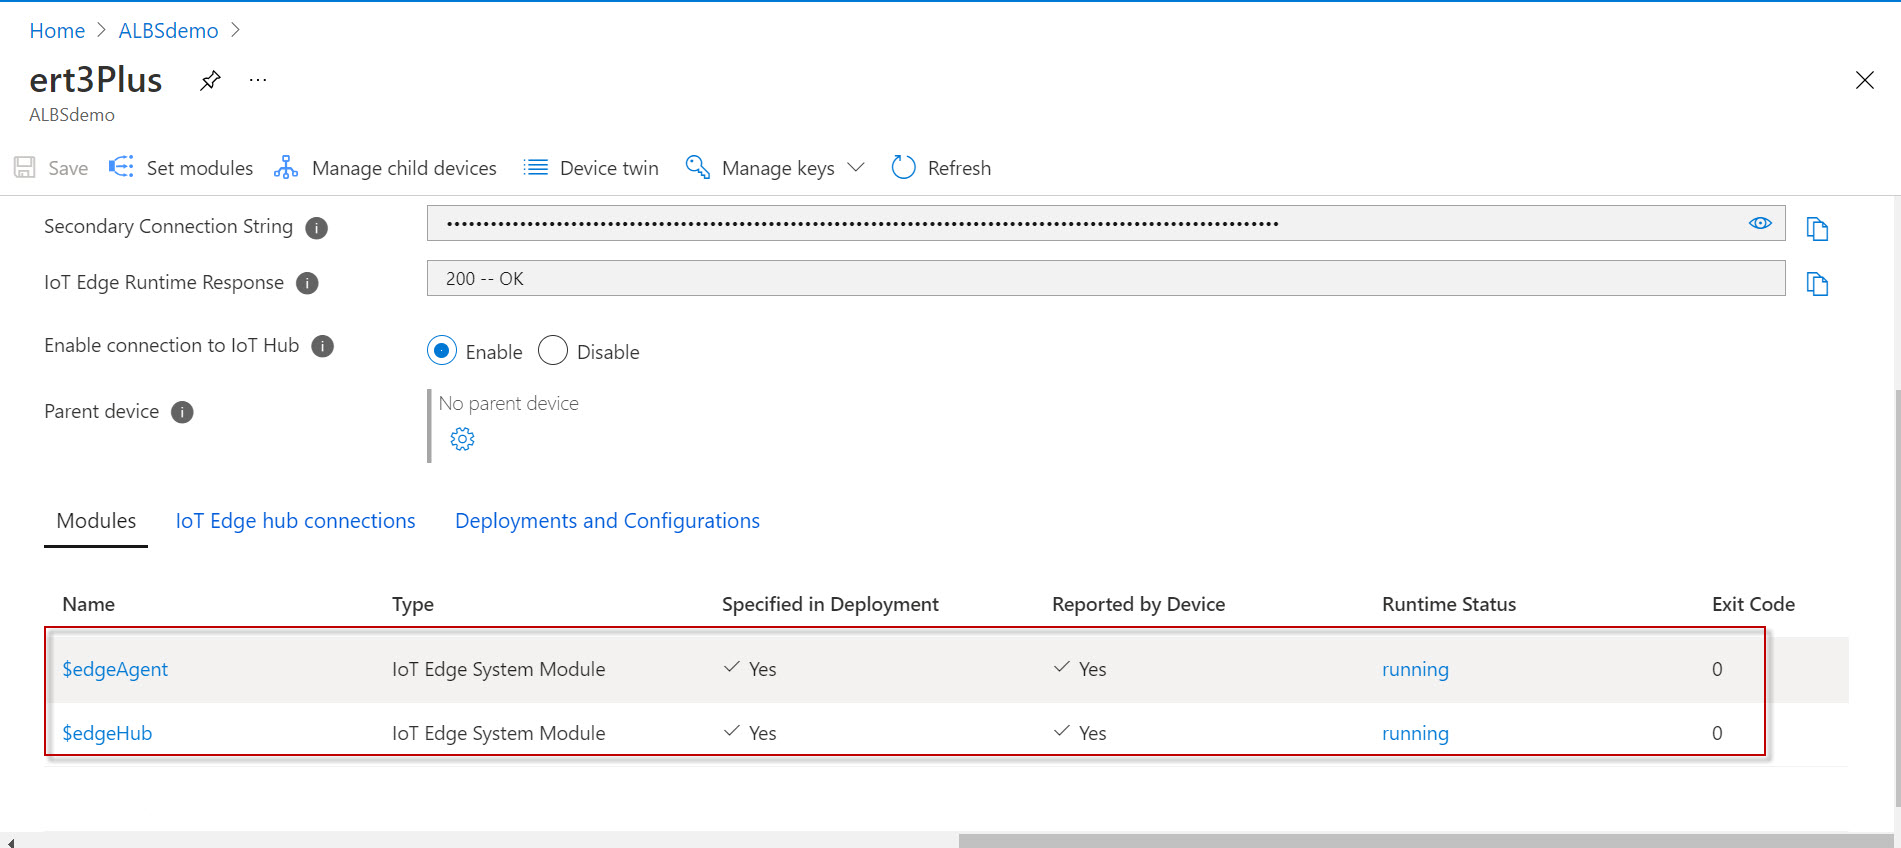
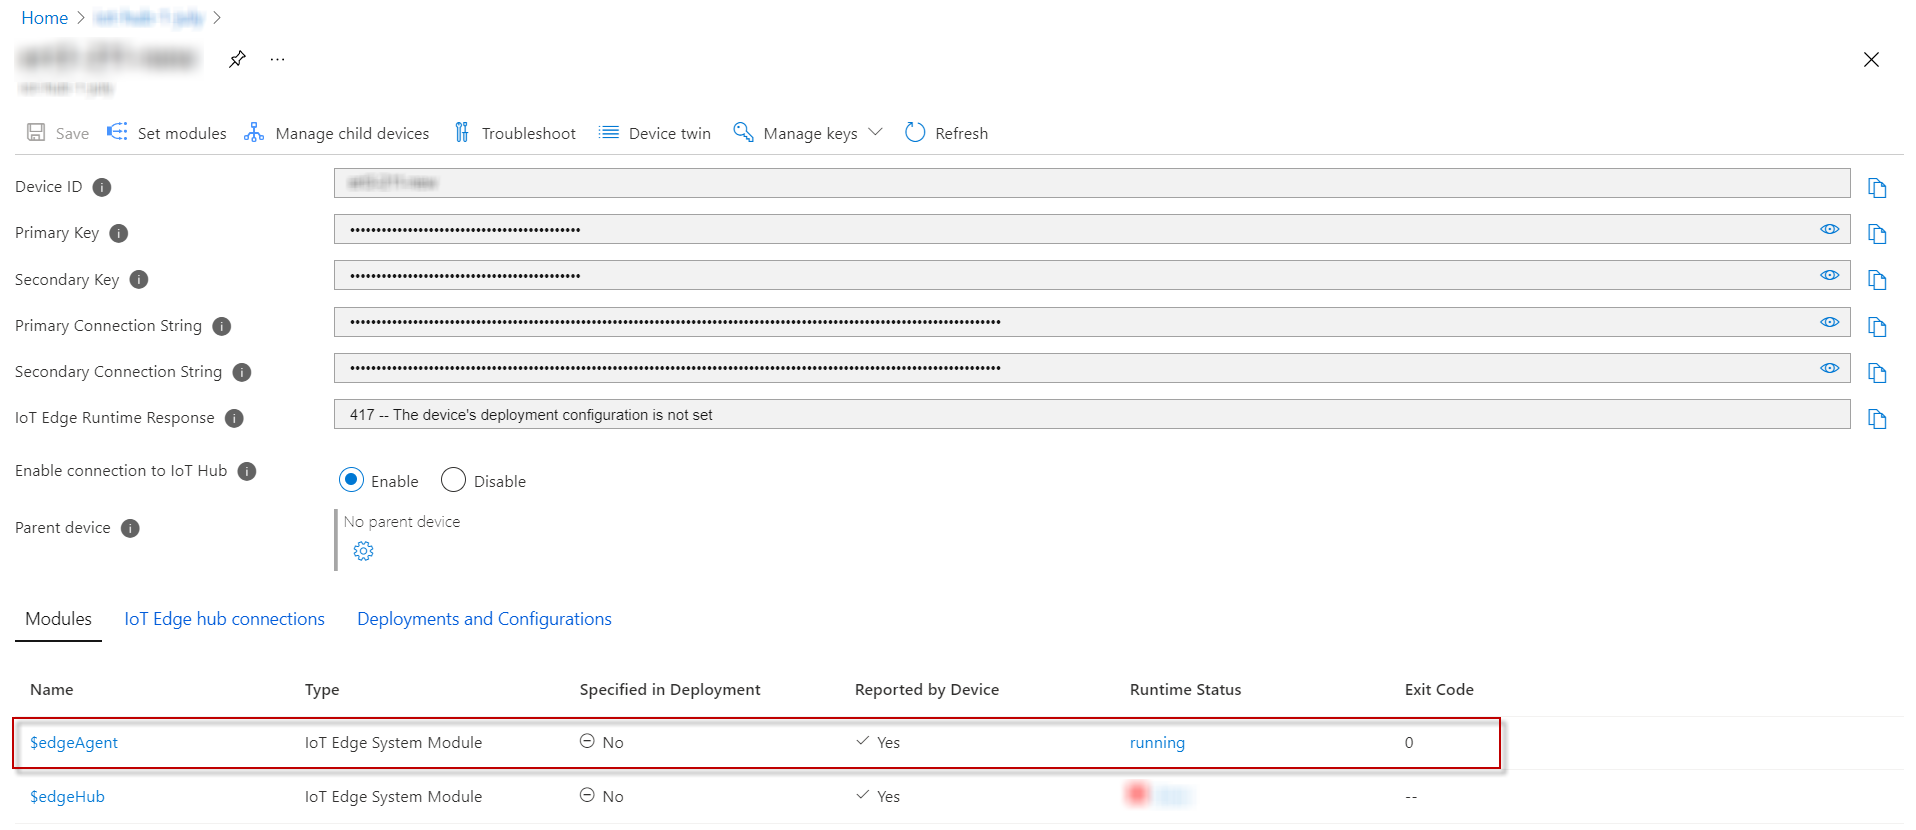
Updated Azure runtime installation article

diff --git a/Articles/Local_blob_storage/Installing_Azure_Runtime_on_e-RT3.md b/Articles/Local_blob_storage/Installing_Azure_Runtime_on_e-RT3.md
@@ -6,7 +6,7 @@ Azure IoT Runtime enables you to collect information and execute commands on Edg
 
 This is part one of a three-part series on using Azure Runtime Environment and e-RT3 Plus together to create bespoke solutions. In this article, we will demonstrate how to deploy Azure Runtime Environment on the e-RT3 Plus device.
 
-![Positioning diagram](assets/Positioning.jpg)
+![Positioning diagram](assets/albs_phase_1_update_cr/Positioning.jpg)
 
 To deploy Azure IoT Edge Runtime on e-RT3 Plus device, configuration must be performed both on the e-RT3 Plus and Azure Cloud. First, the Azure Runtime Environment is installed on e-RT3 Plus by executing commands through an SSH terminal. Once this is done, an IoT Hub is set up on Azure Portal and an Edge device is registered in it. Finally, the e-RT3 Plus and the Edge device in the Azure portal are connected using a connection string and the IoT Edge module is deployed to e-RT3 Plus.
 
@@ -14,7 +14,7 @@ To deploy Azure IoT Edge Runtime on e-RT3 Plus device, configuration must be per
 
 The following figure shows the workflow for deploying Azure Runtime Environment on e-RT3 Plus.
 
-![Workflow](assets/Workflow.jpg)
+![Workflow](assets/albs_phase_1_update_cr/Workflow.jpg)
 
 ## Prerequisites
 
@@ -74,16 +74,16 @@ Follow these steps to install Azure IoT Edge Runtime on e-RT3 Plus:
     > **Note**: For more information about enabling sudo user privileges, refer to [Enabling SUDO user](https://github.com/Yokogawa-Technologies-Solutions-India/e-RT3-docs/blob/master/Articles/Azure/Send-telemetry-data-from-e-RT3-to-azure-IoT-hub.md#enabling-sudo-user).
 
 4. To complete the Azure IoT Edge Runtime installation, perform the following steps:
-   1. Run the following command to install `libiothsm-std version 1.1.1`.
+   1. Run the following command to install `libiothsm-std version 1.1.4`.
 
         ```bash
-        curl -L https://github.com/Azure/azure-iotedge/releases/download/1.1.1/libiothsm-std_1.1.1-1_ubuntu18.04_armhf.deb -o libiothsm-std.deb && sudo dpkg -i ./libiothsm-std.deb
+        curl -L https://github.com/Azure/azure-iotedge/releases/download/1.1.4/libiothsm-std_1.1.4-1_ubuntu18.04_armhf.deb -o libiothsm-std.deb && sudo dpkg -i ./libiothsm-std.deb
         ```
 
-   2. Run the following command to install `iotedge version 1.1.1`.
+   2. Run the following command to install `iotedge version 1.1.4`.
 
         ```bash
-        curl -L https://github.com/Azure/azure-iotedge/releases/download/1.1.1/iotedge_1.1.1-1_ubuntu18.04_armhf.deb -o iotedge.deb && sudo dpkg -i ./iotedge.deb
+        curl -L https://github.com/Azure/azure-iotedge/releases/download/1.1.4/iotedge_1.1.4-1_ubuntu18.04_armhf.deb -o iotedge.deb && sudo dpkg -i ./iotedge.deb
         ```
 
 Azure IoT Edge Runtime is installed on e-RT3 Plus.
@@ -106,11 +106,11 @@ az iot hub device-identity create --hub-name YOUR_HUB_NAME --device-id YOUR_DEVI
 
 Here, `YOUR_HUB_NAME` is the name specified while creating the IoT Hub and `YOUR_DEVICE_ID` is the name of the device being registered.
 
-> **Note**: Save the `device connection string` obtained in step 5 of the registration procedure for future reference. This will be used to bind the e-RT3 Plus device with the Edge device created in Azure IoT Hub.
+> **Note**: Save the `DEVICE_CONNECTION_STRING` obtained in step 5 of the registration procedure for future reference. This will be used to bind the e-RT3 Plus device with the Edge device created in Azure IoT Hub.
 
 ### Connect IoT Runtime on e-RT3 Plus to Azure IoT Hub
 
-Now that Azure IoT Edge Runtime is installed on e-RT3 Plus, and the same device is registered on the IoT Hub, these two must be connected to establish communication between them. To do this, the `device connection string` obtained in the previous step must be specified in the `config.yaml` file. This file is generated during the installation of Azure IoT Edge Runtime environment.
+Now that Azure IoT Edge Runtime is installed on e-RT3 Plus, and the same device is registered on the IoT Hub, these two must be connected to establish communication between them. To do this, the `DEVICE_CONNECTION_STRING` obtained in the previous step must be specified in the `config.yaml` file. This file is generated during the installation of Azure IoT Edge Runtime environment.
 
 >**Note**: If you are using a proxy, refer to the steps described in [Configure an IoT Edge device to communicate through a proxy server](https://docs.microsoft.com/en-us/azure/iot-edge/how-to-configure-proxy-support?view=iotedge-2018-06) and then continue.
 
@@ -155,38 +155,33 @@ Follow these steps to deploy the IoT Hub on the e-RT3 Plus device:
 2. In the *Azure services* section, click **IoT Hub**.
 
    The *IoT Hub* page appears, displaying the list of created IoT Hubs.
-   ![Azure_IoTHub](assets/Azure_IoTHub.jpg)
+   ![Azure_IoTHub](assets/albs_phase_1_update_cr/Azure_IoTHub.jpg)
 3. Select the IoT Hub that you have created.
 
    The *IoT Hub Overview* page appears, displaying the details of the selected IoT Hub.
 4. On the left pane, under **Automatic Device Management**, select **IoT Edge**.
 
    The *IoT Edge devices* page appears, displaying the IoT Edge device that you created.
-   ![Azure_IoTHub_device](assets/Azure_IoTHub_device.jpg)
+   ![Azure_IoTHub_device](assets/albs_phase_1_update_cr/Azure_IoTHub_device.jpg)
 
 5. In the upper-left corner, click **Create Deployment**.
 
    The *Create Deployment* page appears.
 
 6. On the **Name and Label** tab, specify a unique name for the deployment in the **Name** box.
-   ![Azure_CreateDeployment](assets/Azure_CreateDeployment.jpg)
+   ![Azure_CreateDeployment](assets/albs_phase_1_update_cr/Azure_CreateDeployment.jpg)
 
 7. In the **Target Devices** tab, specify a priority from 0 to 10 in the **Priority** box.
 
    Here, zero is the lowest priority, and ten is the highest priority.
 
-   ![Azure_TargetDevices](assets/Azure_TargetDevices.png)
+   ![Azure_TargetDevices](assets/albs_phase_1_update_cr/Azure_TargetDevices.jpg)
 
-8. In the **Target Condition** box, specify the following condition.
-
-   ```bash
-   deviceId='{YOUR_DEVICE_ID}'
-   ```
-
-9. Click **Review + create**.
+8. Click **Review + create**.
 
    The details entered are validated and the *Review + create* page appears.
-10. Click **Create**.
+
+9. Click **Create**.
 
    The deployment is started. The deployment usually takes a while to complete, so you must wait before proceeding to the next step.
 
@@ -211,9 +206,9 @@ Follow these steps to verify the deployment:
 
    The *Device* page appears, displaying the deployment status in the **Modules** tab.
 
-   ![Azure_DeploymentStatus](assets/Azure_DeploymentStatus.jpg)
+   ![Azure_DeploymentStatus](assets/albs_phase_1_update_cr/Azure_DeploymentStatus.jpg)
 
-   If the deployment is successful, the **Runtime Status** is displayed as `running` for each module. The modules listed here are the same modules listed in the e-RT3 Plus device as verified in the last step of [Connect IoT Runtime on e-RT3 Plus to Azure IoT Hub](#connect-iot-runtime-on-e-rt3-plus-to-azure-iot-hub).
+   If the deployment is successful, the **Runtime Status** of the `edgeAgent` module is displayed as `running`. The modules listed here are the same modules listed in the e-RT3 Plus device as verified in the last step of [Connect IoT Runtime on e-RT3 Plus to Azure IoT Hub](#connect-iot-runtime-on-e-rt3-plus-to-azure-iot-hub).
 
 ## Conclusion
 
